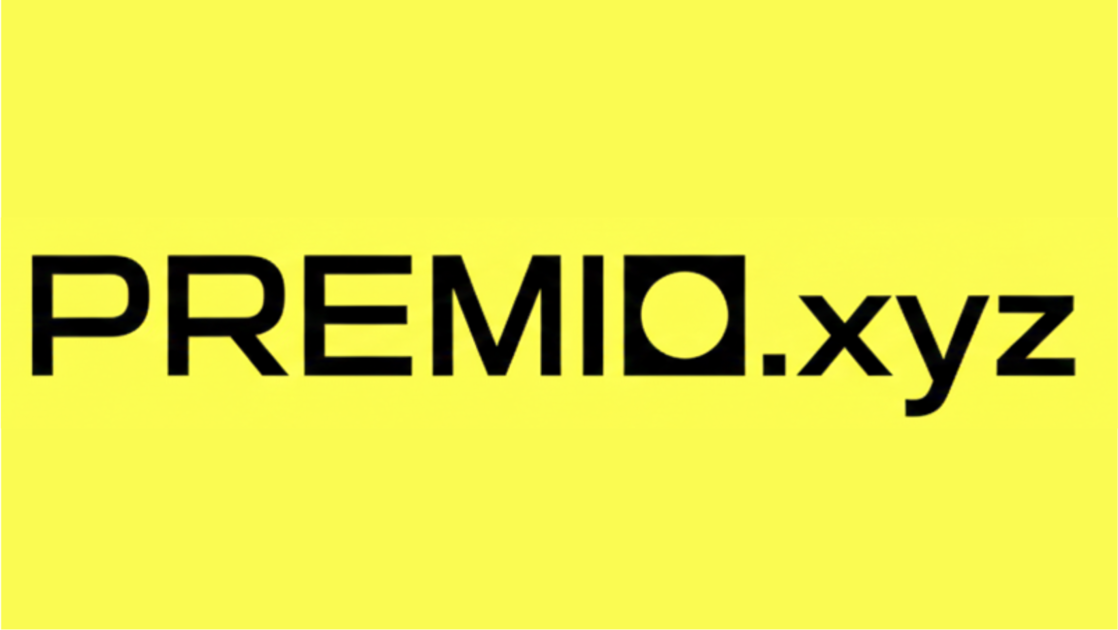
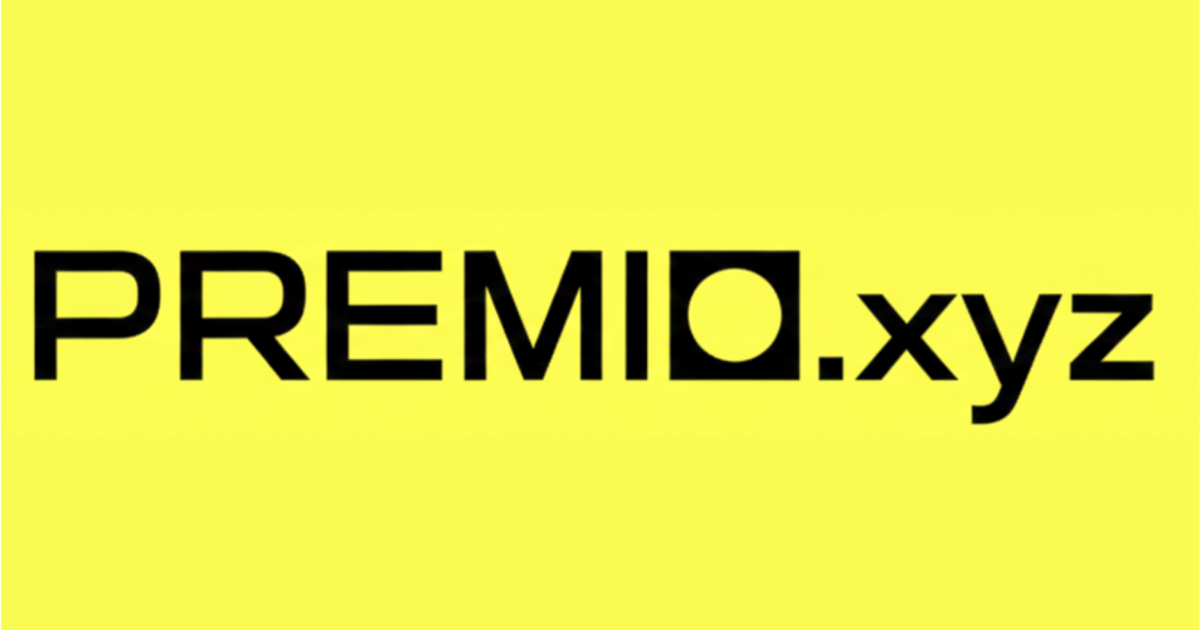
fix: enforce 1.91:1 aspect ratio and explicit dimensions for frame image

diff --git a/apps/web/src/app/layout.tsx b/apps/web/src/app/layout.tsx
@@ -21,7 +21,14 @@ export const metadata: Metadata = {
   openGraph: {
     title: 'Premio.xyz',
     description: 'Recompensas virales en Farcaster con Celo MiniPay',
-    images: ['/image.png'],
+    images: [
+      {
+        url: '/image.png',
+        width: 1200,
+        height: 630,
+        alt: 'Premio.xyz Cover',
+      },
+    ],
   },
   twitter: {
     card: 'summary_large_image',
@@ -32,10 +39,10 @@ export const metadata: Metadata = {
   other: {
     "fc:frame": "vNext",
     "fc:frame:image": "https://celo-build-web-8rej.vercel.app/image.png",
+    "fc:frame:image:aspect_ratio": "1.91:1",
     "fc:frame:button:1": "Lanzar App",
     "fc:frame:button:1:action": "link",
     "fc:frame:button:1:target": "https://celo-build-web-8rej.vercel.app",
-    "fc:frame:post_url": "https://celo-build-web-8rej.vercel.app/api/webhook",
   }
 };
 
